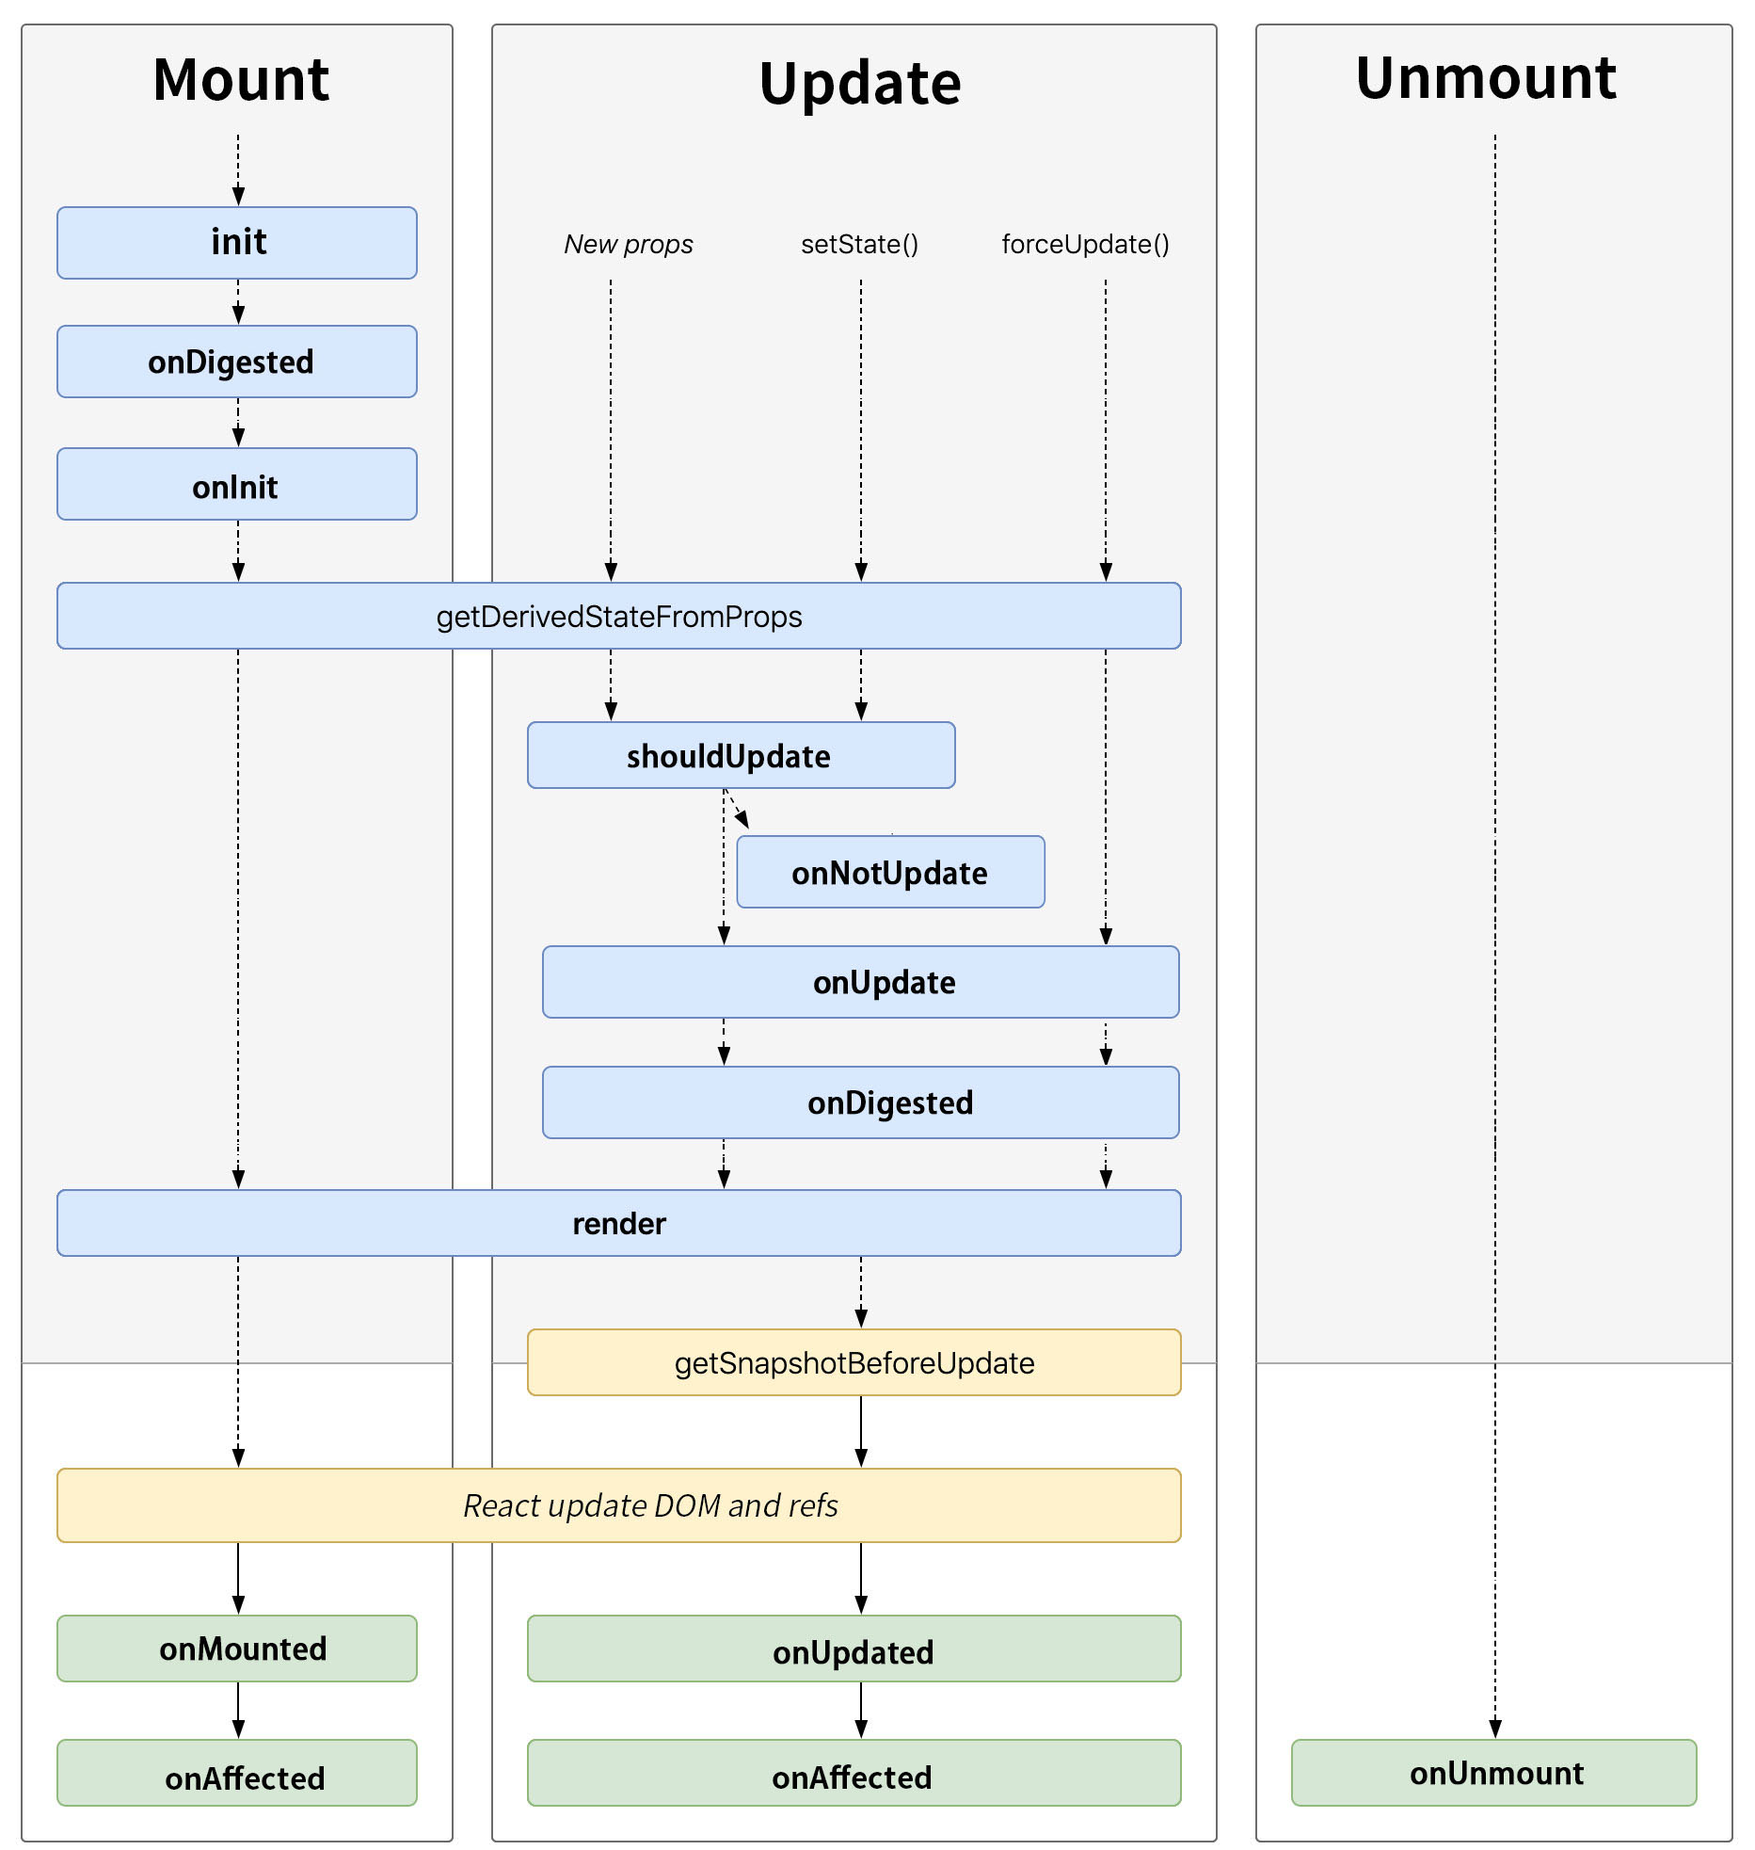
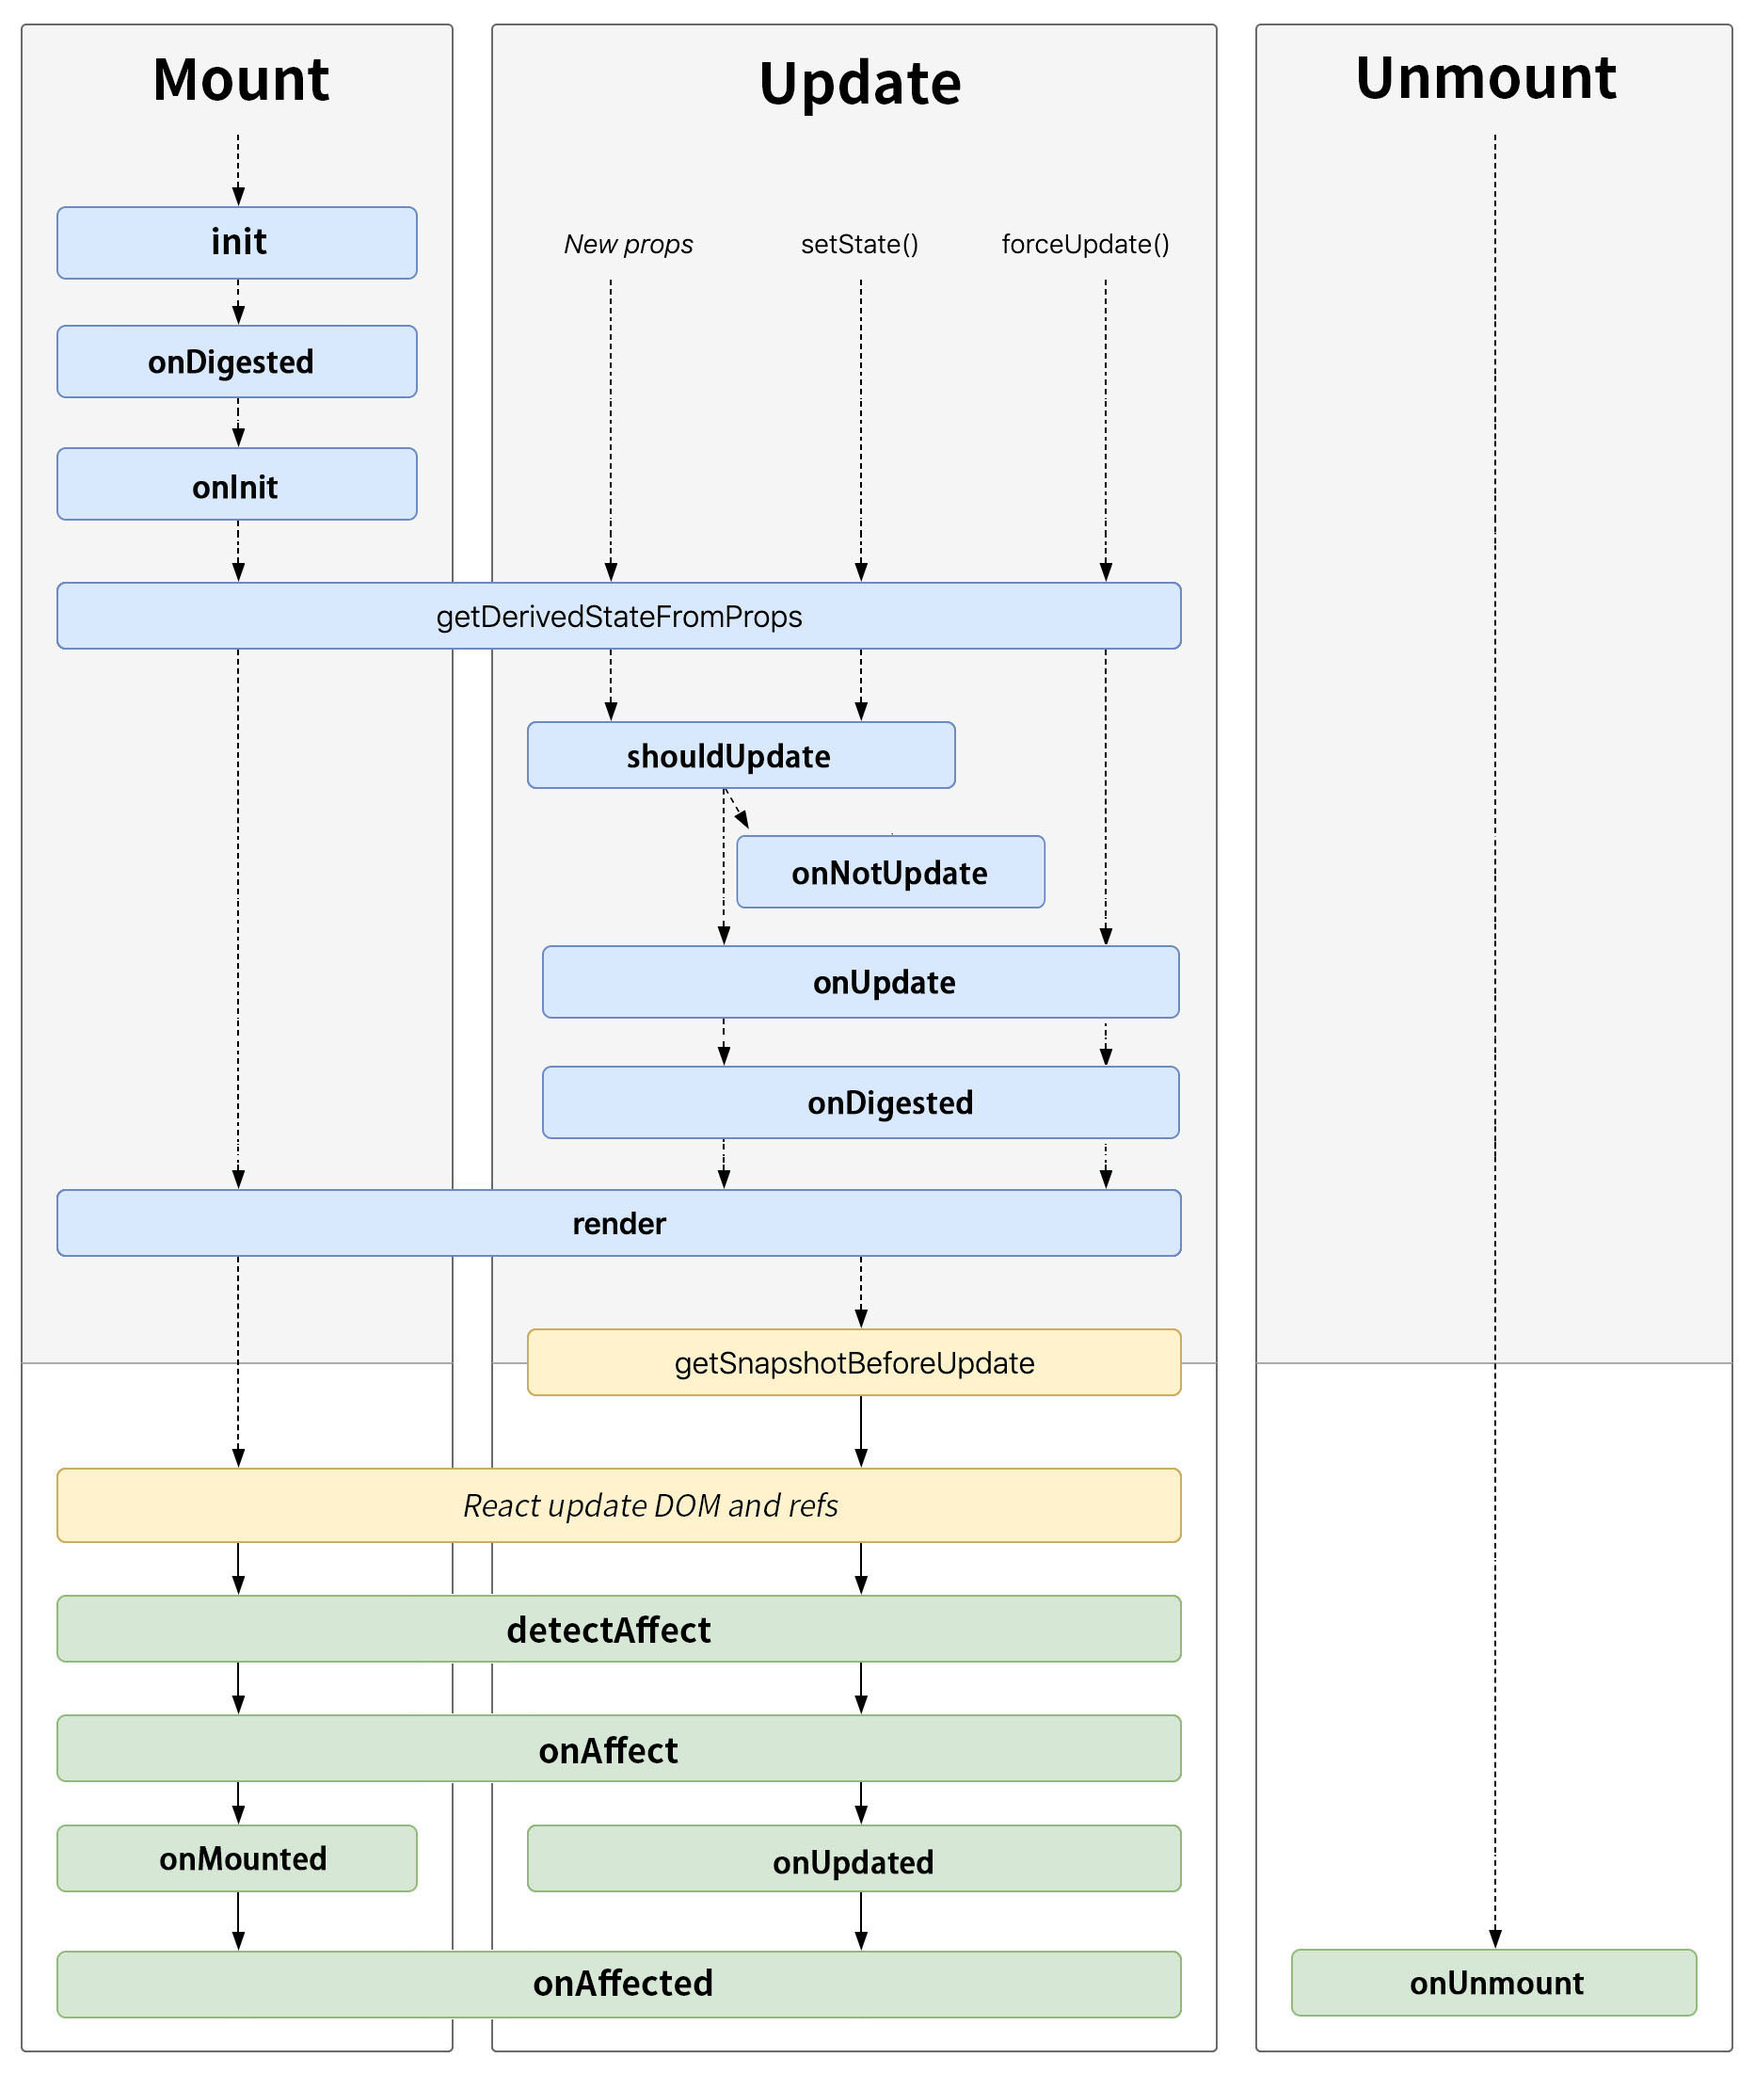
BREAKING CHANGE: update component lifecycle mehtods and move onAffected to end of onMoutned/onUpdated

diff --git a/src/lib/component.js b/src/lib/component.js
@@ -54,13 +54,15 @@ export class Component extends PrimitiveComponent {
   constructor(props) {
     super(props)
 
-    this._effectors = []
+    this._schedulers = []
 
     this._tasksQueue = []
     this._tasksRunner = null
 
     this._isMounted = false
     this._isUnmounted = false
+
+    this._effectors = null
 
     define(this, 'update', { value: this.update.bind(this) })
     define(this, 'forceUpdate', { value: this.forceUpdate.bind(this) })
@@ -91,7 +93,7 @@ export class Component extends PrimitiveComponent {
 
   subscribe(name, affect) {
     const upperCaseName = name.replace(name[0], name[0].toUpperCase())
-    this._effectors.push({
+    this._schedulers.push({
       name: upperCaseName,
       affect,
     })
@@ -100,9 +102,9 @@ export class Component extends PrimitiveComponent {
 
   unsubscribe(name, affect) {
     const upperCaseName = name.replace(name[0], name[0].toUpperCase())
-    this._effectors.forEach((item, i) => {
+    this._schedulers.forEach((item, i) => {
       if (upperCaseName === item.name && (!affect || affect === item.affect)) {
-        this._effectors.splice(i, 1)
+        this._schedulers.splice(i, 1)
       }
     })
     return this
@@ -385,7 +387,7 @@ export class Component extends PrimitiveComponent {
     // }
 
     const affect = (name, subject) => {
-      this._effectors.forEach((item) => {
+      this._schedulers.forEach((item) => {
         if (name === item.name) {
           subject = item.affect(subject) || subject
           if (process.env.NDOE_ENV !== 'production') {
@@ -519,10 +521,22 @@ export class Component extends PrimitiveComponent {
     }
   }
 
+  _affect(fn) {
+    const nextEffectors = this.detectAffect(this.props)
+    if (nextEffectors === true || !isShallowEqual(this._effectors, nextEffectors)) {
+      const deferer = Promise.resolve(this.onAffect())
+      const runner = Promise.resolve(fn())
+      deferer.then(() => runner).then(() => this.onAffected()).catch(noop)
+      this._effectors = nextEffectors
+    }
+    else {
+      fn()
+    }
+  }
+
   componentDidMount(...args) {
     this._isMounted = true
-    this.onMounted(...args)
-    this.onAffected()
+    this._affect(() => this.onMounted(...args))
     this._runTasks()
   }
   shouldComponentUpdate(nextProps, ...args) {
@@ -538,8 +552,7 @@ export class Component extends PrimitiveComponent {
     }
   }
   componentDidUpdate(...args) {
-    this.onUpdated(...args)
-    this.onAffected()
+    this._affect(() => this.onUpdated(...args))
     this._runTasks()
   }
   componentWillUnmount(...args) {
@@ -574,6 +587,10 @@ export class Component extends PrimitiveComponent {
   onUnmount() {}
   onCatch() {}
   onDigested() {}
+  detectAffect() {
+    return true
+  }
+  onAffect() {}
   onAffected() {}
   onParseProps(props) {
     return props

diff --git a/docs/component/lifecircle.md b/docs/component/lifecircle.md
@@ -2,22 +2,36 @@
 
 A little different from react, Nautil has its own lifecircle:
 
-- init: when `constructor` run, should always be override insteadof using `constructor` with `super`
-- onDigested: after this.attrs, this.className, this.style... generated
-- onInit: after this.$state generated
+- ===== mount: =======
+- init
+- onDigested
+- onInit
+- detectAffect
+- onAffect
 - onMounted
-- onAffected: will be invoked after mounted/updated, like useEffect do
-- =============
+- onAffected
+- ====== update: =======
 - shouldUpdate
 - onNotUpdate
 - onUpdate
 - onDigested
+- detectAffect
+- onAffect
 - onUpdated
 - onAffected
-- =============
+- ====== unmount: =======
 - onUnmount
-- =============
+- ====== error: =======
 - onCatch
+
+Details:
+
+- init: when `constructor` run, use `init` so that you do not need to call `super` in `constructor`
+- onDigested: after this.attrs, this.className, this.style... generated
+- onInit: after this.$state generated
+- detectAffect: detect whether to affect, should must return an array
+- onAffect: will be invoked before onMounted/onUpdated
+- onAffected: be invoked after onAffect and onMounted/onUpdated
 
 ![](../assets/nautil-lifecircle.jpg)
 
